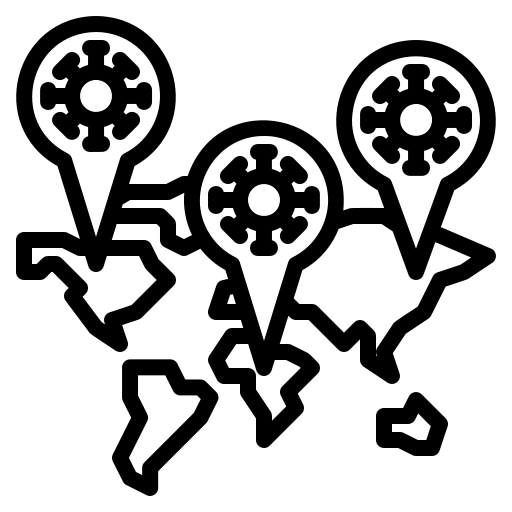
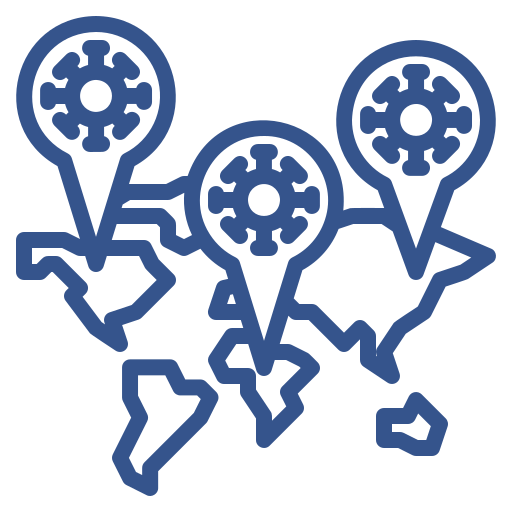
Add images with color wireframe

diff --git a/src/components/Nav.js b/src/components/Nav.js
@@ -4,6 +4,7 @@ import { useHistory } from 'react-router';
 import moment from "moment";
 import mic from '../img/microphone-16.png';
 import settings from '../img/settings-16.png';
+import arrow from '../img/arrow.png';
 
 const date = moment().format("YYYY-MM-DD")
 
@@ -18,11 +19,10 @@ const Nav = () => {
     <nav className='nav-menu'>
       {
         history.location.pathname.includes('details')
-          ? <button type="button" onClick={goBack}>hello</button>
+          ? <button className="go-back-btn" type="button" onClick={goBack}><img className="go-back-img" src={arrow} alt="go"/></button>
           : <h1 className="logo">Covid19 Tracker</h1>
       }
       <ul className='menu-container'>
-        {/* <li className="menu-li">COVID-19 cases worldwide</li> */}
         <li className="menu-date">Date: <br/>{date}</li>
         <button className="mic-button" type="button"><img className="mic-img" src={mic} /><img className="settings-img" src={settings} /></button>
       </ul>

diff --git a/src/App.css b/src/App.css
@@ -5,6 +5,7 @@ body {
   width: 100vw;
   color: white;
   overflow-x: hidden;
+  background-color: #4369b0;
 }
 
 @media (max-width: 768px) {
@@ -123,7 +124,15 @@ body {
     transform: rotate(45deg);
   }
 
-  .det-btn {
+  .go-back-img {
+    padding: 0;
+    width: 35px;
+    height: 35px;
+    transform: rotate(-135deg);
+  }
+
+  .det-btn,
+  .go-back-btn {
     background-color: transparent;
     border: none;
   }
